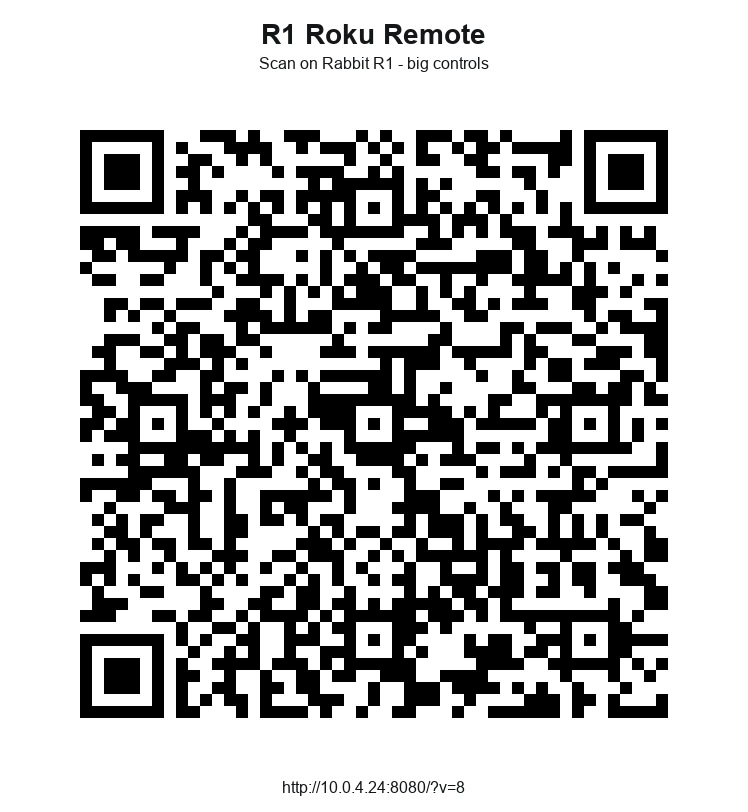
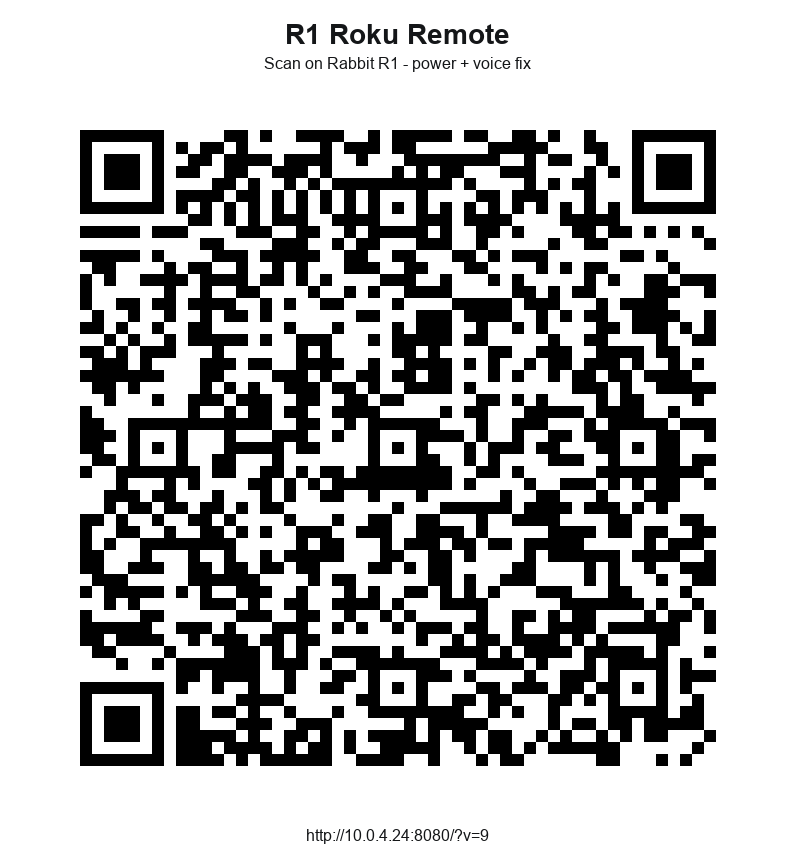
Add power and fix voice entry focus

diff --git a/web-creation/js/app.js b/web-creation/js/app.js
@@ -56,7 +56,9 @@
         });
         document.getElementById("helpBtn").addEventListener("click", openHelp);
         document.getElementById("closeHelpBtn").addEventListener("click", closeHelp);
-        document.getElementById("openTextBtn").addEventListener("click", openTextPanel);
+        document.getElementById("openTextBtn").addEventListener("click", function () {
+            openTextPanel(true);
+        });
         document.getElementById("saveBtn").addEventListener("click", saveSettings);
         document.getElementById("discoverBtn").addEventListener("click", discover);
         document.getElementById("sendTextBtn").addEventListener("click", sendText);
@@ -320,12 +322,14 @@
         }
     }
 
-    function openTextPanel() {
+    function openTextPanel(focusText) {
         textPanel.classList.remove("hidden");
         settingsEl.classList.add("hidden");
         helpPanel.classList.add("hidden");
         morePanel.classList.add("hidden");
-        voiceTextInput.focus();
+        if (focusText) {
+            voiceTextInput.focus();
+        }
         setVoiceStatus("Hold side button to speak, or type.");
     }
 
@@ -335,12 +339,11 @@
     }
 
     function startVoiceInput(autoSend) {
-        openTextPanel();
+        openTextPanel(false);
         var SpeechRecognition = window.SpeechRecognition || window.webkitSpeechRecognition;
         if (!SpeechRecognition) {
             sendVoiceOnRelease = false;
-            setVoiceStatus("Voice unavailable; type instead.");
-            voiceTextInput.focus();
+            setVoiceStatus("Voice unavailable. Tap field to type.");
             return;
         }
         if (isListening) {
@@ -363,7 +366,7 @@
                 voiceTextInput.value = transcript.trim();
             };
             recognition.onerror = function () {
-                setVoiceStatus("Voice unavailable; type instead.");
+                setVoiceStatus("Voice unavailable. Tap field to type.");
                 isListening = false;
             };
             recognition.onend = function () {

diff --git a/web-creation/index.html b/web-creation/index.html
@@ -10,6 +10,7 @@
     <main id="app">
         <section class="status-strip">
             <p id="status">Set a Roku IP</p>
+            <button class="power-button" data-key="PowerOff" aria-label="Power">Power</button>
         </section>
 
         <section class="remote" id="remote">
@@ -45,7 +46,7 @@
             </div>
 
             <div class="primary-row">
-                <button data-key="Play">Play</button>
+                <button class="play-pause" data-key="Play" aria-label="Play/Pause">&#9654;&#10074;&#10074;</button>
                 <button id="moreBtn">More</button>
             </div>
         </section>
@@ -56,7 +57,6 @@
                 <button id="closeMoreBtn">Close</button>
             </div>
             <div class="more-grid">
-                <button data-key="PowerOff">Power</button>
                 <button data-key="InstantReplay">Replay</button>
                 <button data-key="Rev">Rev</button>
                 <button data-key="Fwd">Fwd</button>
@@ -112,6 +112,6 @@
             <p id="voiceStatus">Voice uses browser speech when available.</p>
         </section>
     </main>
-    <script src="./js/app.js?v=8"></script>
+    <script src="./js/app.js?v=9"></script>
 </body>
 </html>

diff --git a/web-creation/css/styles.css b/web-creation/css/styles.css
@@ -49,8 +49,10 @@ input {
 }
 
 .status-strip {
-    height: 18px;
-    display: flex;
+    height: 34px;
+    display: grid;
+    grid-template-columns: 1fr 62px;
+    gap: 7px;
     align-items: center;
 }
 
@@ -63,6 +65,13 @@ p {
     white-space: nowrap;
     overflow: hidden;
     text-overflow: ellipsis;
+}
+
+.power-button {
+    height: 34px;
+    border-color: #51306b;
+    background: #271737;
+    font-size: 11px;
 }
 
 .remote {
@@ -94,7 +103,7 @@ p {
 .dpad {
     display: grid;
     grid-template-columns: repeat(3, 1fr);
-    grid-template-rows: repeat(3, 48px);
+    grid-template-rows: repeat(3, 45px);
     gap: 0;
 }
 
@@ -260,8 +269,13 @@ p {
     height: 43px;
 }
 
-.more-grid button:nth-child(9) {
+.more-grid button:nth-child(8) {
     grid-column: 1 / -1;
+}
+
+.play-pause {
+    font-size: 19px;
+    letter-spacing: 0;
 }
 
 label {
